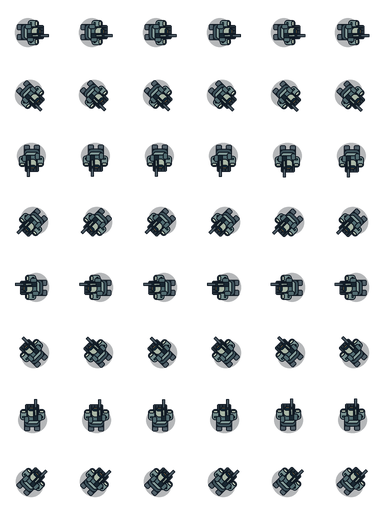
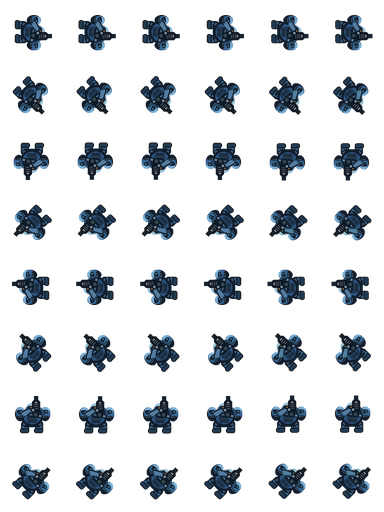
art: reshape rifle armour and weapon, sustain muzzle fire and add airborne death

diff --git a/tools/art/build_rifle.py b/tools/art/build_rifle.py
@@ -5,56 +5,94 @@ from PIL import Image, ImageDraw
 ROOT = Path(__file__).resolve().parents[2]
 OUT = ROOT / 'assets/units/rifle'
 S = 4
-STATES = {'idle': (6, 6, True), 'move': (8, 12, True), 'fire': (4, 16, False), 'death': (8, 10, False)}
+STATES = {'idle': (6, 6, True), 'move': (8, 12, True), 'fire': (8, 24, True), 'death': (16, 16, False)}
 
 def frame(state, f, n, direction):
     im = Image.new('RGBA', (64*S, 64*S))
     d = ImageDraw.Draw(im)
     phase = math.tau*f/n
     bob = math.sin(phase)*.45 if state in ('idle','move') else 0
-    recoil = [1.8, 1, .3, 0][f] if state == 'fire' else 0
+    recoil = [1.2, .1, 1.6, .2, 1.0, 0, 1.4, .3][f] if state == 'fire' else 0
     fall = f/(n-1) if state == 'death' else 0
     def box(x,y,w,h,fill,outline='#101923',r=1.5):
         y += bob + recoil
         d.rounded_rectangle(tuple(int(v*S) for v in (32+x,32+y,32+x+w,32+y+h)),radius=int(r*S),fill=fill,outline=outline,width=S)
-    # Soft contact shadow; compact body silhouette ~22 px at final display scale.
-    d.ellipse((18*S,23*S,47*S,49*S),fill=(5,10,18,75))
+    def poly(points,fill):
+        d.polygon([(int((32+x)*S),int((32+y+bob+recoil)*S)) for x,y in points],fill=fill)
+    def oval(x,y,w,h,fill):
+        d.ellipse(tuple(int(v*S) for v in (32+x,32+y+bob+recoil,32+x+w,32+y+h+bob+recoil)),fill=fill)
+    # Splayed boots, bent knees; silhouette is broad armour, not a narrow humanoid.
     for side in (-1,1):
-        stride = math.sin(phase)*3*side if state == 'move' else 0
-        box(side*5-3,3+stride,6,11,'#293746')
-        box(side*5-3,10+stride,6,5,'#52616a')
-        box(side*5-2,6+stride,4,4,'#86918d')
-    box(-8,-7,16,18,'#3e535b',r=4)
-    box(-7,-12,14,8,'#27343c') # reactor pack, exhaust ribs
-    for x in (-5,-2,1,4): box(x,-11,1,5,'#81918c',r=0)
-    box(-7,-6,14,14,'#849c99',r=3)
-    box(-5,-4,10,9,'#526d72',r=2)
-    for x in (-12,6):
-        box(x,-7,7,11,'#77908f',r=3)
-        box(x+1,-6,5,3,'#bdc9b6',r=1)
-        box(x+2,0,3,2,'#65d6c5',r=.5)
-    box(-5,-9,10,10,'#aab7a6',r=4)
-    box(-4,-9,8,4,'#132e3d',r=2)
-    box(-3,-9,6,2,'#f4bf65',r=1)
-    # Two gauntlets holding an offset rifle, clear barrel direction toward north.
-    box(-8,0,5,7,'#536c71',r=2)
-    box(5,-2,5,7,'#536c71',r=2)
-    box(1,-11,5,16,'#182731',r=1)
-    box(2,-17,3,9,'#52616a',r=.5)
-    box(2,-7,3,7,'#83928a',r=.5)
-    box(2,-4,1,3,'#efb969',r=0)
-    if state == 'fire' and f < 2:
-        points = [(35,-0),(32,10),(34,8),(35,15),(38,8),(40,10)]
-        d.polygon([(x*S,(y+9)*S) for x,y in points], fill='#ffb743')
-        d.ellipse((34*S,14*S,38*S,19*S),fill='#fff4b3')
+        stride=math.sin(phase)*3.4*side if state=='move' else 0
+        spread=fall*5
+        x=side*(7+spread)-4
+        box(x,5+stride,8,10,'#172438',r=3)
+        box(x,8+stride,8,7,'#3c648d',r=2)
+        box(x-1,12+stride,9,5,'#223950',r=2)
+        box(x+1,8+stride,5,2,'#82abc5',r=1)
+    # Twin exhaust stacks behind a domed cuirass.
+    box(-10,-2,20,13,'#172536',r=4)
+    for x in (-10,5):
+        box(x,0,5,10,'#45667d',r=2)
+        for y in (2,4,6): box(x+1,y,3,1,'#111e29',r=0)
+    oval(-10,-9,20,20,'#101e30')
+    oval(-9,-9,18,17,'#305882')
+    oval(-7,-9,14,11,'#5489b0')
+    poly([(-6,0),(0,3),(6,0),(5,7),(-5,7)],'#203c58')
+    box(-3,4,6,2,'#b0bdc2',r=.5)
+    # Massive layered pauldrons, two separate arms converging on the gun.
+    for x in (-17,8):
+        oval(x,-9,10,14,'#101c2d')
+        oval(x+1,-9,9,11,'#35648f')
+        oval(x+2,-9,7,6,'#70a4ca')
+        box(x+2,-6,6,3,'#4b82b0')
+        box(x+2,0,6,2,'#bad0d6',r=.4)
+        box(x+3,-5,2,3,'#d8e3cf',r=.4)
+    oval(-7,-12,14,14,'#142333')
+    oval(-6,-13,12,12,'#6397bc')
+    oval(-4,-13,8,7,'#8eb6cb')
+    box(-5,-10,10,5,'#102234',r=2)
+    box(-4,-10,8,3,'#e99b32',r=1)
+    box(-3,-10,5,1,'#fff1a2',r=.3)
+    box(-4,-5,8,3,'#29485f',r=1)
+    # Wide receiver, vented fore-end, magazine and short muzzle: recognisably a rifle.
+    poly([(-12,-1),(-10,-5),(-2,-9),(1,-6),(-6,0)],'#132536')
+    poly([(-11,-2),(-9,-4),(-3,-7),(-1,-5),(-7,0)],'#527da0')
+    poly([(12,1),(12,-5),(7,-10),(4,-7),(7,0)],'#284864')
+    box(0,-15,8,14,'#101b26',r=1)
+    box(1,-16,6,11,'#566770',r=1)
+    box(2,-15,4,3,'#9ba9a8',r=.4)
+    for y in (-11,-9,-7): box(2,y,4,1,'#17232e',r=0)
+    box(1,-4,5,5,'#334958',r=.5)
+    box(6,-5,3,5,'#182b3c',r=.5)
+    box(2,-20,4,5,'#17222b',r=.5)
+    box(2,-20,4,1,'#9daaaa',r=0)
+    box(-1,-8,4,4,'#7894aa',r=1) # support glove wraps fore-end
+    box(6,-2,4,4,'#6786a2',r=1) # trigger hand
+    if state == 'fire':
+        length=[7,4,8,5,7,3,6,8][f]
+        poly([(4,-19),(0,-22),(3,-22),(2,-20-length),(5,-24),(8,-25),(6,-21),(9,-20)],'#fa7828')
+        poly([(3,-20),(3,-24),(4,-21-length),(6,-23),(5,-20)],'#ffce51')
+        poly([(3,-20),(4,-25),(5,-20)],'#fffbdc')
+        box(11+f%3,-4-f%4,2,1,'#efc171',r=0)
     if state == 'death':
-        # Collapse and roll, never move the ground anchor.
-        im = im.resize((64*S,int((64-24*fall)*S)),Image.Resampling.LANCZOS)
-        canvas = Image.new('RGBA',(64*S,64*S))
-        canvas.alpha_composite(im,(int(fall*3*S),int(12*fall*S)))
-        im = canvas.rotate(-65*fall,Image.Resampling.BICUBIC)
-        if fall > .7:
-            im.putalpha(im.getchannel('A').point(lambda a:int(a*(1-.35*(fall-.7)/.3))))
+        # Separate airborne silhouette and ground shadow. Body rolls through the impact.
+        flight=min(1,fall/.72)
+        lift=math.sin(math.pi*flight)*10
+        squash=1-.5*abs(math.sin(flight*math.pi*2))
+        body=im.resize((64*S,int(64*S*squash)),Image.Resampling.LANCZOS)
+        canvas=Image.new('RGBA',(64*S,64*S))
+        canvas.alpha_composite(body,(0,int((64*S-body.height)/2)))
+        im=canvas.rotate(-flight*155,Image.Resampling.BICUBIC)
+        canvas=Image.new('RGBA',(64*S,64*S))
+        canvas.alpha_composite(im,(0,int(-lift*S)))
+        im=canvas
+        dust=ImageDraw.Draw(im)
+        if fall>.65:
+            for k in range(7):
+                angle=k*math.tau/7
+                x=32+math.cos(angle)*(8+fall*10); y=36+math.sin(angle)*5
+                dust.ellipse((int(x*S),int(y*S),int((x+3)*S),int((y+1)*S)),fill=(155,143,120,int(90*(1-fall))))
     # Authored north, atlas starts east; clockwise screen direction.
     im = im.rotate(-90-direction*45,Image.Resampling.BICUBIC)
     return im.resize((64,64),Image.Resampling.LANCZOS)
@@ -65,7 +103,7 @@ for state,(count,fps,loop) in STATES.items():
     for direction in range(8):
         for f in range(count): atlas.alpha_composite(frame(state,f,count,direction),(f*64,direction*64))
     atlas.save(OUT/f'{state}.png')
-manifest={'version':1,'frame_size':[64,64],'anchor':[32,32],'display_size':[36,36], 'directions':['E','SE','S','SW','W','NW','N','NE'],'animations':{k:{'texture':k+'.png','frames':v[0],'fps':v[1],'loop':v[2]} for k,v in STATES.items()}}
+manifest={'version':2,'frame_size':[64,64],'anchor':[32,32],'display_size':[36,36], 'directions':['E','SE','S','SW','W','NW','N','NE'],'animations':{k:{'texture':k+'.png','frames':v[0],'fps':v[1],'loop':v[2]} for k,v in STATES.items()}}
 (OUT/'manifest.json').write_text(json.dumps(manifest,indent=2)+'\n')
 # Review sheet at 3x, no simulation required.
 review=Image.new('RGB',(8*144,4*170),'#101e30'); draw=ImageDraw.Draw(review)
@@ -75,3 +113,18 @@ for row,(state,(n,_,_)) in enumerate(STATES.items()):
         review.paste(img,(col*144,row*170+24),img)
         draw.text((col*144+8,row*170+6),f'{state} {manifest["directions"][col]}',fill='#c9ddd9')
 review.save(OUT/'preview.png')
+
+frames=[]
+for t in range(72):
+    im=Image.new('RGB',(800,230),'#101e30'); d=ImageDraw.Draw(im)
+    for i,(state,(n,fps,loop)) in enumerate(STATES.items()):
+        f=int(t*fps/24)
+        f=f%n if loop else min(f%32,n-1)
+        sprite=frame(state,f,n,7).resize((192,192))
+        if state=='death':
+            shift=int(min(f/11,1)*25)
+            im.paste(sprite,(i*200+shift-12,28),sprite)
+        else: im.paste(sprite,(i*200,28),sprite)
+        d.text((i*200+30,10),state,fill='#d3e5db')
+    frames.append(im)
+frames[0].save(OUT/'animations.gif',save_all=True,append_images=frames[1:],duration=42,loop=0)
